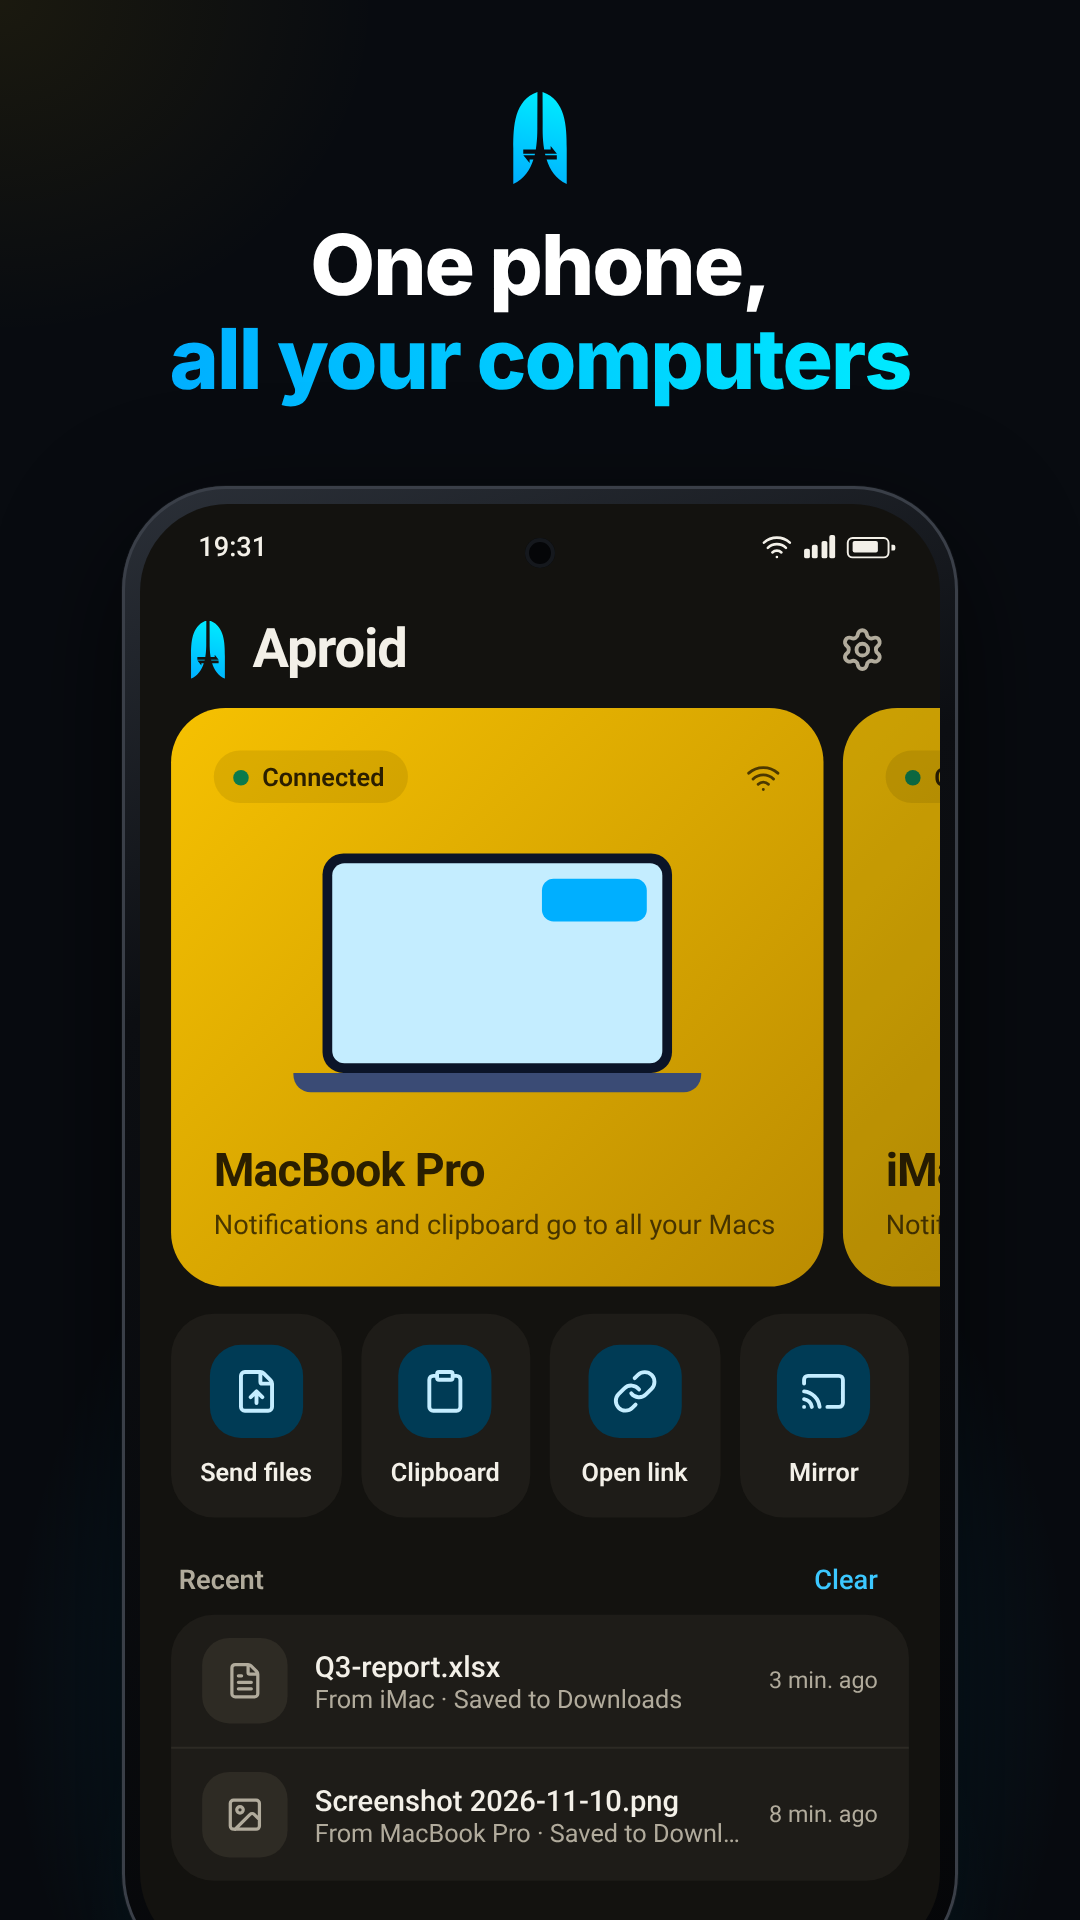
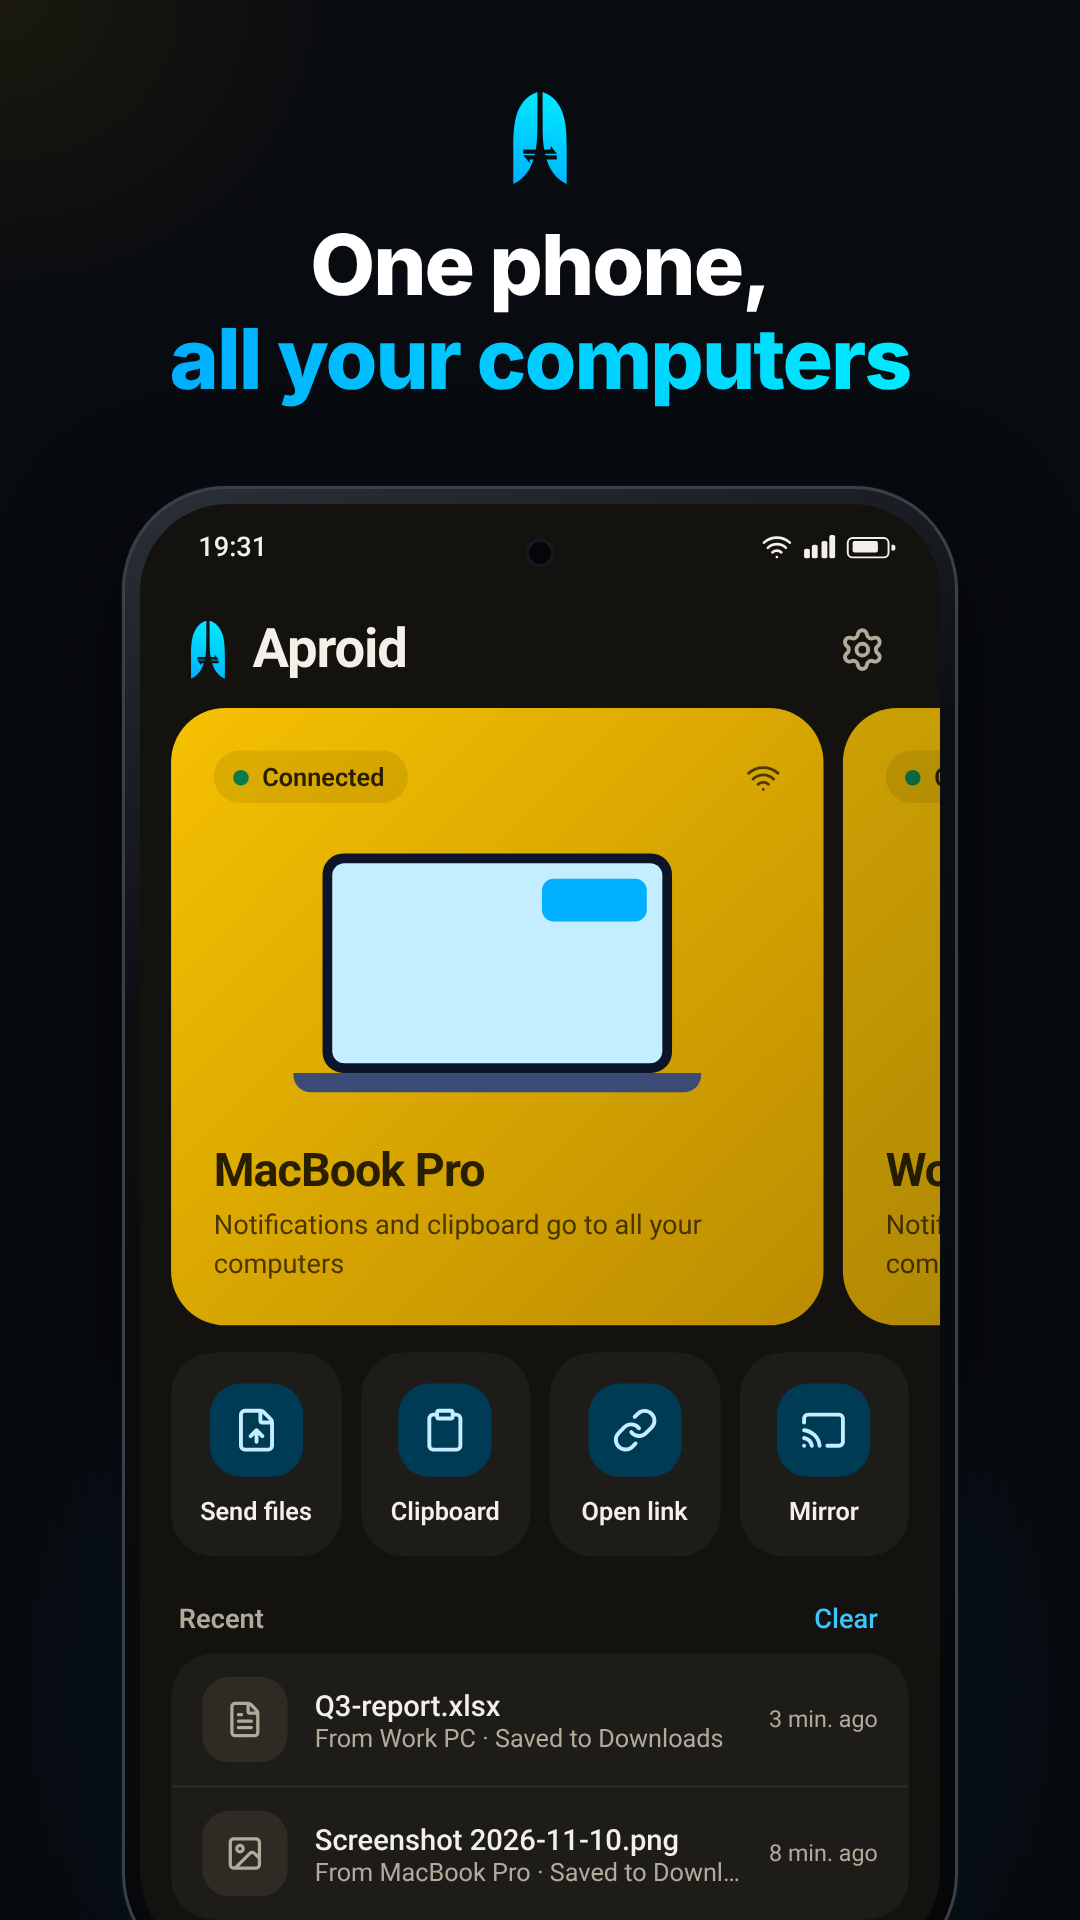
feat: show a Windows PC in the Play Store screenshots

diff --git a/store/android/page/shots.js b/store/android/page/shots.js
@@ -92,7 +92,7 @@ const SHOTS = [
         size: '48.6 MB',
         targets: [
           { name: 'MacBook Pro', progress: 64, detail: '8 of 12 · 41 MB/s · about 1 second left' },
-          { name: 'iMac' },
+          { name: 'Work PC' },
         ],
       }),
     ),
@@ -120,13 +120,13 @@ const SHOTS = [
     lines: ['Copy here,', 'paste there'],
     screen: (app) => app.screen(
       app.home([
-        app.hero('MacBook Pro', FLOWING),
+        app.hero('Work PC', FLOWING),
         app.tiles(),
         app.recent([
-          { icon: 'clipboard', title: 'Copied from MacBook Pro', detail: 'Wi-Fi password: blue-lagoon-42', when: '1 min. ago' },
+          { icon: 'clipboard', title: 'Copied from Work PC', detail: 'Wi-Fi password: blue-lagoon-42', when: '1 min. ago' },
         ]),
       ]),
-      app.toast('Clipboard sent to your Mac'),
+      app.toast('Clipboard sent to your computer'),
     ),
   }),
   new StoreShot({
@@ -134,10 +134,10 @@ const SHOTS = [
     lines: ['One phone,', 'all your computers'],
     dark: true,
     screen: (app) => app.screen(app.home([
-      app.carousel(['MacBook Pro', 'iMac']),
+      app.carousel(['MacBook Pro', 'Work PC']),
       app.tiles(),
       app.recent([
-        { icon: 'file-text', title: 'Q3-report.xlsx', detail: 'From iMac · Saved to Downloads', when: '3 min. ago' },
+        { icon: 'file-text', title: 'Q3-report.xlsx', detail: 'From Work PC · Saved to Downloads', when: '3 min. ago' },
         { icon: 'image', title: 'Screenshot 2026-11-10.png', detail: 'From MacBook Pro · Saved to Downloads', when: '8 min. ago' },
       ]),
     ])),
@@ -146,8 +146,8 @@ const SHOTS = [
     id: '06-pair',
     lines: ['Pair once,', 'stay connected'],
     screen: (app) => app.screen(
-      app.home([app.hero('MacBook Pro', FLOWING), app.tiles()]),
-      app.pairSheet('MacBook Pro', '4F7A2C91'),
+      app.home([app.hero('Work PC', FLOWING), app.tiles()]),
+      app.pairSheet('Work PC', '4F7A2C91'),
     ),
   }),
 ];

diff --git a/store/android/page/app.js b/store/android/page/app.js
@@ -48,7 +48,7 @@ class AndroidApp {
   }
 
   carousel(names) {
-    const text = 'Notifications and clipboard go to all your Macs';
+    const text = 'Notifications and clipboard go to all your computers';
 
     return `<div class="carousel">${this.hero(names[0], text)}${this.hero(names[1], text, 'peek')}</div>`;
   }
@@ -110,7 +110,7 @@ class AndroidApp {
 
     return this.sheet(`<div class="pair">
       ${this.laptop(150)}
-      <div><div class="title">Pair with ${name}?</div><div class="hint">Make sure your Mac shows the same code.</div></div>
+      <div><div class="title">Pair with ${name}?</div><div class="hint">Make sure your computer shows the same code.</div></div>
       <div class="digits">${digits}</div>
       <div class="buttons"><div class="filled">Pair</div><div class="outlined">Not now</div></div>
       <div class="private">${this.icon('lock')}Encrypted, and never leaves your network</div>
